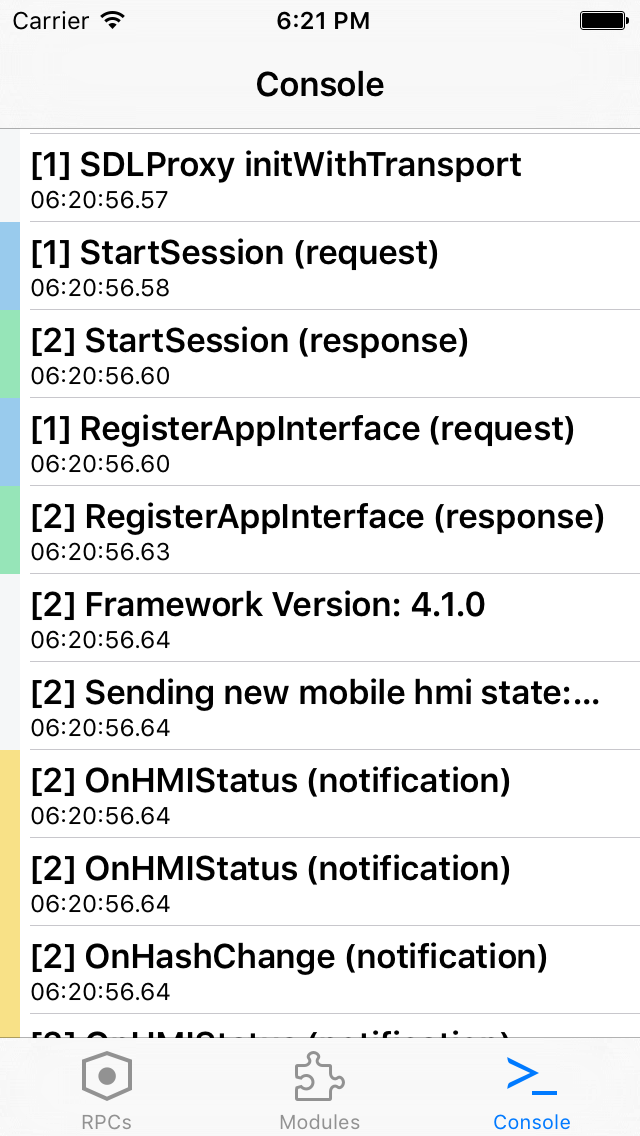
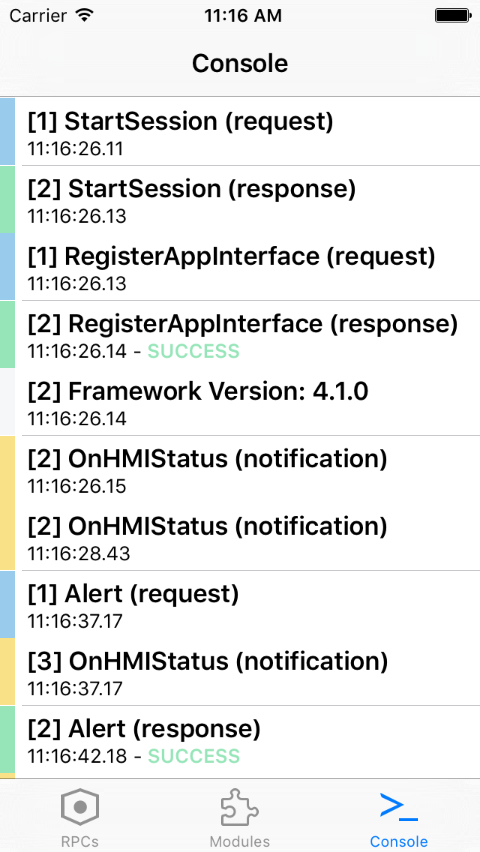
Updated readme for color responses.

diff --git a/README.md b/README.md
@@ -133,6 +133,14 @@ Tapping on items in the console will reveal the JSON associated with that item, 
 
 <img src="/ReadmeFiles/Console-RAI.png" width=200px>
 
+On RPC Responses, we do have a color coded value for easy reading when attempting to find successful/unsuccessful calls.
+* Green
+  * Used for responses that come back with `SUCCESS`.
+* Yellow
+  * Used for responses that come back with `ABORTED`, `TIMED_OUT` or `WARNINGS`.
+* Red
+  * Used for responses that come back with any other result.
+
 ### A Special Note about Putfile
 Putfile is the RPC responsible for sending binary data from our mobile libraries to core. This application provides support for adding any type of file; either from the Camera roll (for images) or iTunes shared storage for any other files. Similar to adding custom RPC Spec files, any file located within the `BulkData` directory will be present in Local Storage and be usable for upload.
 
